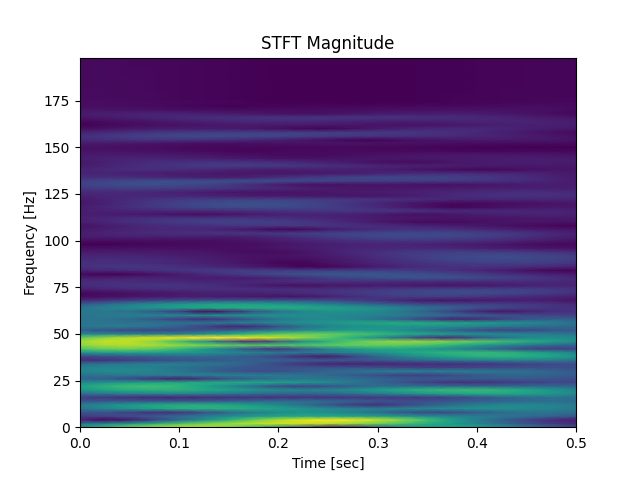
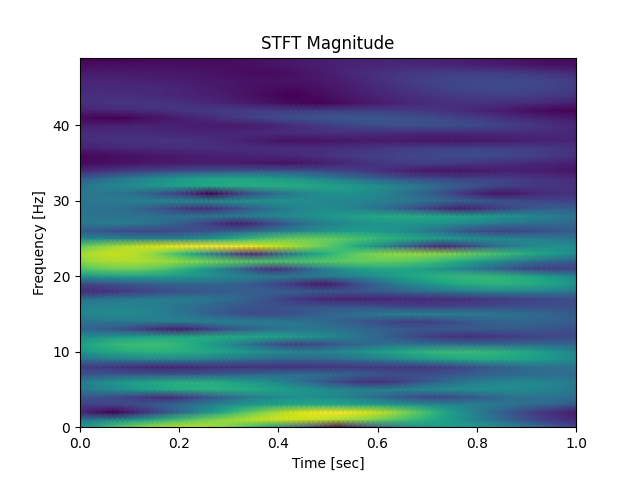
Updated

diff --git a/main.py b/main.py
@@ -1,20 +1,17 @@
 import torch
 import torch.nn as nn
-import torch.utils.data as data
 import torch.backends.cudnn as cudnn
 import torch.optim as optim
-from torchvision import transforms
 from torch.optim.lr_scheduler import MultiStepLR
-from torch.nn import functional as F
 
-import os
 import argparse
-from config import *
-from utils.utils import progress_bar, model_loader
-from utils.hdf5_dataset import *
+from utils.config import Config
+from utils.utils import progress_bar, model_loader, data_loader
+
 
 parser = argparse.ArgumentParser(description='Backdoor Detection')
 parser.add_argument('--device', default='cuda:0',type=str, help='GPU device')
+parser.add_argument('--model_type', default='cnn',type=str, help='cnn, caspnet')
 parser.add_argument('--batch_size', default=32, type=int, help='Test Batch Size')
 parser.add_argument('--n_epochs', default=500, type=int, help='Number of epochs')
 parser.add_argument('--num_workers', default=4, type=int, help='Test Batch Size')
@@ -23,23 +20,13 @@ parser.add_argument('--wd', default=0.01,type=float,help='Weight Decay')
 args = parser.parse_args()
 
 best_acc = 0
-trainset = HDF5Dataset('./data/train_2d.h5')
-validset = HDF5Dataset('./data/valid_2d.h5')
-
-trainloader = torch.utils.data.DataLoader(trainset, batch_size=args.batch_size,    shuffle=True,  num_workers=args.num_workers, pin_memory=False)
-validloader  = torch.utils.data.DataLoader(validset,  batch_size=args.batch_size, shuffle=False, num_workers=args.num_workers, pin_memory=False)
-
+trainloader, validloader, _ = data_loader(args.batch_size, args.num_workers)
 inputs, _ = next(iter(trainloader))
 #inputs, _ = next(iter(trainloader))
 
 in_shape=inputs[0,:,:,:].shape
+config = Config(args.model_type)
 net = model_loader(config)
-if args.model_type == 'cnn':
-   from models.cnn_models import *
-   net = Net(in_shape, n_subjects)
-elif args.model_type == 'caspnet':
-   from models.caspnet import *
-   net = CapsNet(config)
 #net.load_state_dict(torch.load('./checkpoint/Net.pth',map_location=args.device))
 net = net.to(args.device)
 '''

diff --git a/utils/config.py b/utils/config.py
@@ -1,20 +1,44 @@
 import numpy as np
 
 class Config:
-      self.n_subjects   = 20
-n_conditions = 4   # FF, EF, FT, ET
-n_channels   = 56
-n_timepoints = 2000
-n_trial      = 36  # For Imaginary 
+      def __init__(self, model='cnn'):
+          self.n_subjects   = 20
+          self.n_conditions = 4   # FF, EF, FT, ET
+          self.n_channels   = 56
+          self.n_timepoints = 2000
+          self.n_trial      = 36  # For Imaginary 
+          
+          self.file_path    = './data/'  # Path to save the h5 files
+          
+          self.window_len  = 1000
+          self.window_inc  = 20
+          self.n_windows   = ((self.n_timepoints-self.window_len)// self.window_inc+1)
+    
+          # Bad Subjects: [0,5,10,11,18]
+          self.train_subjects = [1,2,3,4,6,8,9,12,13,14,15,16,19]
+          # train_subjects  = [1,2,3]
+          self.valid_subjects  = [7]
+          self.test_subjects   = [17]
 
-file_path    = './data/'  # Path to save the h5 files
+          if model == 'caspnet':
+            # CNN (cnn)
+            self.cnn_in_channels = self.n_channels
+            self.cnn_out_channels = 256
+            self.cnn_kernel_size = 9
 
-window_len  = 1000
-window_inc  = 20
-n_windows   = ((n_timepoints-window_len)// window_inc+1)
+            # Primary Capsule (pc)
+            self.pc_num_capsules = 8
+            self.pc_in_channels = 256
+            self.pc_out_channels = 32
+            self.pc_kernel_size = 9
+            self.pc_num_routes = 32 * 6 * 6
 
-# Bad Subjects: [0,5,10,11,18]
-train_subjects = [1,2,3,4,6,8,9,12,13,14,15,16,19]
-#train_subjects  = [1,2,3]
-valid_subjects  = [7]
-test_subjects   = [17]
+            # Digit Capsule (dc)
+            self.dc_num_capsules = 10
+            self.dc_num_routes = 32 * 6 * 6
+            self.dc_in_channels = 8
+            self.dc_out_channels = 16
+
+            # Decoder
+            self.input_width = 28
+            self.input_height = 28               

diff --git a/test_performance.py b/test_performance.py
@@ -1,37 +1,21 @@
-import torch
-import torch.nn as nn
-import torch.utils.data as data
-import torch.backends.cudnn as cudnn
-import torch.optim as optim
-from torchvision import transforms
-from torch.optim.lr_scheduler import MultiStepLR
-from torch.nn import functional as F
-
-import os
 import argparse
-from config import *
-from models.cnn_model import *
-from utils import progress_bar
-from hdf5_dataset import *
+from utils.config import Config
+from utils.utils import progress_bar, model_loader, data_loader
 
 parser = argparse.ArgumentParser(description='Backdoor Detection')
 parser.add_argument('--device', default='cuda:0',type=str, help='GPU device')
+parser.add_argument('--model_type', default='cnn',type=str, help='cnn, caspnet')
 parser.add_argument('--batch_size', default=32, type=int, help='Test Batch Size')
 parser.add_argument('--num_workers', default=4, type=int, help='Test Batch Size')
 args = parser.parse_args()
 
 best_acc = 0
-testset  = HDF5Dataset('./data/test_2d.h5')
-validset = HDF5Dataset('./data/valid_2d.h5')
-
-
-testloader  = torch.utils.data.DataLoader(testset,  batch_size=args.batch_size, shuffle=True, num_workers=args.num_workers, pin_memory=False)
-validloader = torch.utils.data.DataLoader(validset, batch_size=args.batch_size, shuffle=True, num_workers=args.num_workers, pin_memory=False)
-
+trainloader, validloader, testloader = data_loader(args.batch_size, args.num_workers)
+config = Config(args.model_type)
+net = model_loader(config)
 inputs, _ = next(iter(testloader))
 
 in_shape=inputs[0,:,:,:].shape
-net = Net(in_shape, n_subjects)
 net.load_state_dict(torch.load('./checkpoint/Net.pth',map_location=args.device))
 net = net.to(args.device)
 

diff --git a/plot_signals.py b/plot_signals.py
@@ -7,7 +7,7 @@ from scipy import signal
 Subject   = 2
 Condition = 0
 Trial     = 2
-Channel   = 1
+Channel   = 2
 j_windows = 1
 path = "./data/SF_Obs_MLdata.mat"
 f = h5py.File(path,'r')
@@ -25,11 +25,29 @@ plt.savefig('./Figs/1D_signal_Sub_'+str(Subject)+'_Cond_'+str(Condition)+'_Trial
 #plt.show()
 plt.close()
 
-f, t, Sxx = signal.stft(eeg, fs=2000, nperseg=1000, noverlap=950)
+f, t, Sxx = signal.stft(eeg, fs=1000, nperseg=500, noverlap=450, padded=False)
+print(eeg.shape, f.shape, t.shape, Sxx.shape)
 plt.figure(1)
-plt.pcolormesh(t, f[:100], np.abs(Sxx[:100,:]), shading='gouraud')
+plt.pcolormesh(t, f[:50], np.abs(Sxx[:50,:]), shading='gouraud')
 plt.title('STFT Magnitude')
 plt.ylabel('Frequency [Hz]')
 plt.xlabel('Time [sec]')
 plt.savefig('./Figs/2D_signal_Sub_'+str(Subject)+'_Cond_'+str(Condition)+'_Trial_'+str(Trial)+'_Channel_'+str(Channel)+'.png')
+#plt.show()
+plt.close()
+
+f_f, t_f, Sxx_f = signal.stft(eeg, fs=1000, nperseg=300, noverlap=250)
+f_t, t_t, Sxx_t = signal.stft(eeg, fs=1000, nperseg=500, noverlap=450, padded=True)
+print(eeg.shape, f.shape, t.shape, f_f[:20].shape, Sxx_t.shape)
+fig = plt.figure(1)
+axs = fig.subplots(2, 1)
+axs[0].pcolormesh(t_t, f_t[:50], np.abs(Sxx_t[:50,:]), shading='gouraud')
+axs[0].set_ylabel("Padded")
+axs[1].pcolormesh(t_f, f_f[:20], np.abs(Sxx_f[:20,:]), shading='gouraud')
+axs[1].set_ylabel("Not Padded")
+#plt.title('STFT Magnitude')
+#plt.ylabel('Frequency [Hz]')
+#plt.xlabel('Time [sec]')
+plt.savefig('./Figs/2D_signal_Sub_'+str(Subject)+'_Cond_'+str(Condition)+'_Trial_'+str(Trial)+'_Channel_'+str(Channel)+'.png')
+plt.show()
 plt.close()

diff --git a/utils/utils.py b/utils/utils.py
@@ -6,6 +6,8 @@
 import os
 import sys
 import time
+import torch
+from utils.hdf5_dataset import *
 
 
 _, term_width = os.popen('stty size', 'r').read().split()
@@ -16,12 +18,24 @@ last_time = time.time()
 begin_time = last_time
 
 def model_loader(config):
-    if name == 'cnn':
+    if config.name == 'cnn':
        from models.cnn_models import *
        return Net(config.in_shape, config.n_subjects)
-    elif name == 'caspnet':
+    elif config.name == 'caspnet':
        from models.caspnet import *
        return CapsNet(config)
+    
+def data_loader(batch_size, num_workers):
+    trainset = HDF5Dataset('./data/train_2d.h5')
+    validset = HDF5Dataset('./data/valid_2d.h5')
+    testset  = HDF5Dataset('./data/test_2d.h5')
+    
+    trainloader = torch.utils.data.DataLoader(trainset, batch_size=batch_size, shuffle=True,  num_workers=num_workers, pin_memory=False)
+    validloader = torch.utils.data.DataLoader(validset, batch_size=batch_size, shuffle=False, num_workers=num_workers, pin_memory=False)
+    testloader  = torch.utils.data.DataLoader(testset,  batch_size=batch_size, shuffle=False, num_workers=num_workers, pin_memory=False)
+
+    return trainloader, validloader, testloader
+
 
 def progress_bar(current, total, msg=None):
     global last_time, begin_time
